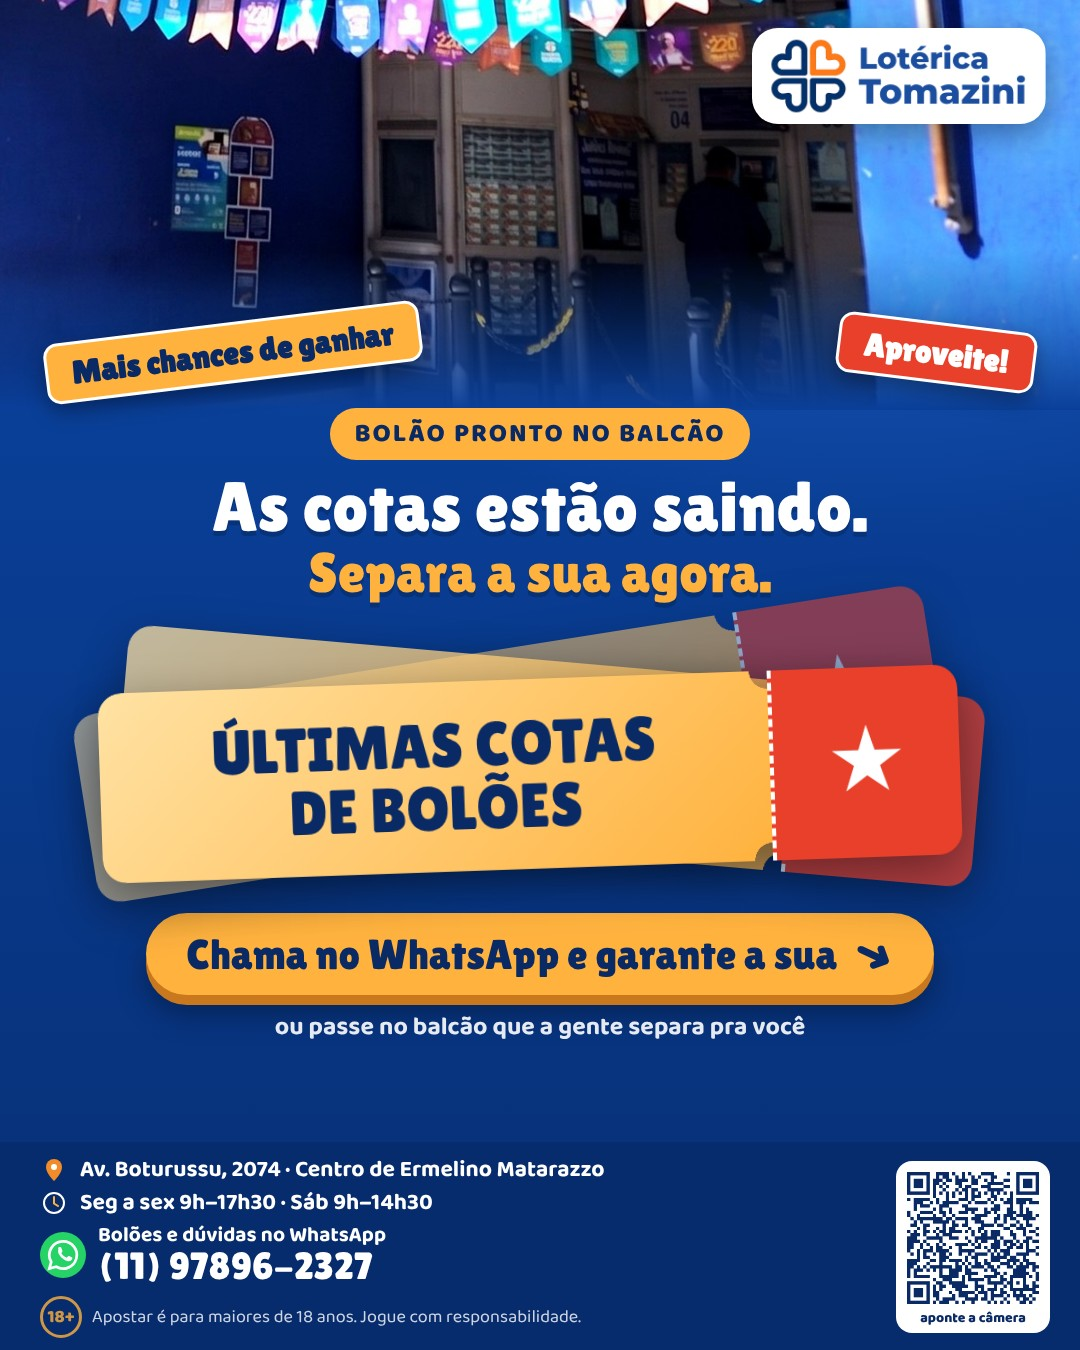
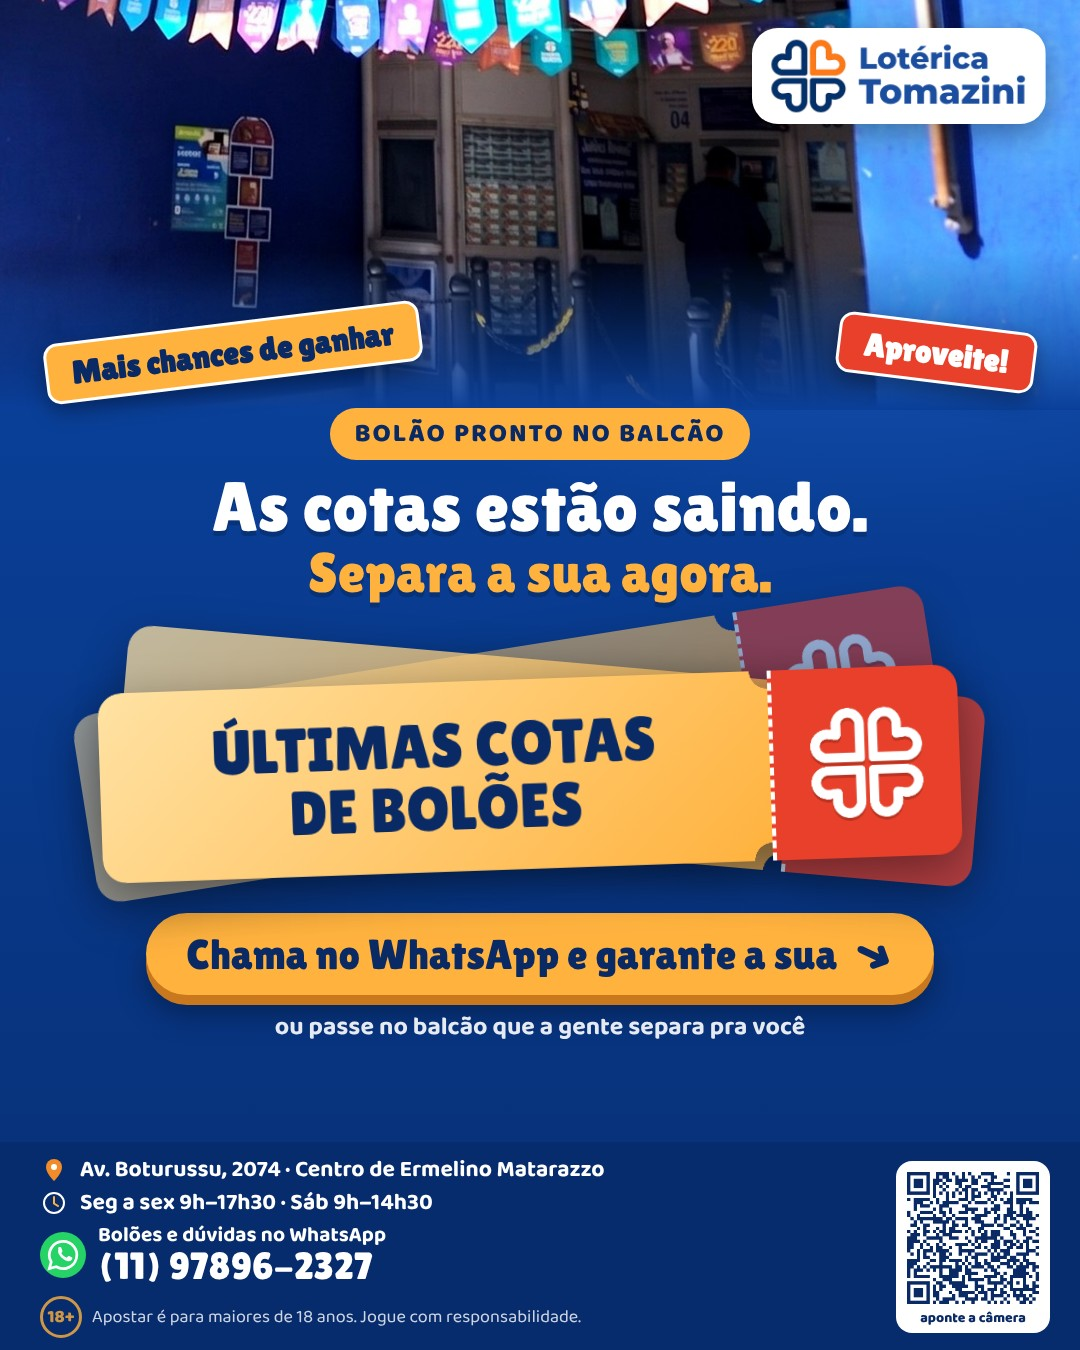
Peça de bolões: trevo da marca G3 em branco no canhoto do cupom
Claude-Session: https://claude.ai/code/session_01Bxe7GpT3JXbyMSz1b7a84R

Changed region(s): [[0.7333, 0.4667, 0.8556, 0.6222]]

diff --git a/pecas-card/bolao_praca-xi.html b/pecas-card/bolao_praca-xi.html
@@ -65,7 +65,7 @@ body{padding:0;align-items:stretch;width:1080px;height:1350px}
 <div class="mid mk2"><div class="tag tl">Mais chances de ganhar</div><div class="tag">Aproveite!</div>
 <div class="kick">BOLÃO PRONTO NO BALCÃO</div>
 <div class="h">As cotas estão saindo.<span>Separa a sua agora.</span></div>
-<div class="lq"><div class="cup c3" style="position:absolute;left:40px;top:10px;transform:rotate(-9deg);opacity:0.55"><div class="cl"></div><div class="cr"><b>★</b></div></div><div class="cup c3" style="position:absolute;left:80px;top:22px;transform:rotate(5deg);opacity:0.75"><div class="cl"></div><div class="cr"><b>★</b></div></div><div class="cup c3" style="position:absolute;left:60px;top:40px;transform:rotate(-2deg);opacity:1"><div class="cl"><b>ÚLTIMAS COTAS<br>DE BOLÕES</b></div><div class="cr"><b>★</b></div></div></div>
+<div class="lq"><div class="cup c3" style="position:absolute;left:40px;top:10px;transform:rotate(-9deg);opacity:0.55"><div class="cl"></div><div class="cr"><img src="__A__/trevo_branco.png" style="width:112px;height:auto;filter:drop-shadow(0 3px 0 rgba(0,0,0,.2))"></div></div><div class="cup c3" style="position:absolute;left:80px;top:22px;transform:rotate(5deg);opacity:0.75"><div class="cl"></div><div class="cr"><img src="__A__/trevo_branco.png" style="width:112px;height:auto;filter:drop-shadow(0 3px 0 rgba(0,0,0,.2))"></div></div><div class="cup c3" style="position:absolute;left:60px;top:40px;transform:rotate(-2deg);opacity:1"><div class="cl"><b>ÚLTIMAS COTAS<br>DE BOLÕES</b></div><div class="cr"><img src="__A__/trevo_branco.png" style="width:112px;height:auto;filter:drop-shadow(0 3px 0 rgba(0,0,0,.2))"></div></div></div>
 <div class="btn">Chama no WhatsApp e garante a sua<b>➜</b></div>
 <div class="ou">ou passe no balcão que a gente separa pra você</div></div>
 <div class="bot"><div class="bl2"><div class="l"><svg viewBox="0 0 56 56" width="28" height="28"><path d="M28 50s16-15 16-28a16 16 0 10-32 0c0 13 16 28 16 28z" fill="#F28C28"/><circle cx="28" cy="22" r="6" fill="#fff"/></svg>Praça Rev. Mattathias Gomes dos Santos, 8 · Praça 11</div><div class="l"><svg viewBox="0 0 56 56" width="28" height="28"><circle cx="28" cy="28" r="20" fill="none" stroke="#fff" stroke-width="4"/><path d="M28 16v13l8 5" fill="none" stroke="#FFB23E" stroke-width="4" stroke-linecap="round"/></svg>Seg a sex 9h–17h45 · Sáb 8h30–14h</div>

diff --git a/pecas-card/bolao_tomazini.html b/pecas-card/bolao_tomazini.html
@@ -65,7 +65,7 @@ body{padding:0;align-items:stretch;width:1080px;height:1350px}
 <div class="mid mk2"><div class="tag tl">Mais chances de ganhar</div><div class="tag">Aproveite!</div>
 <div class="kick">BOLÃO PRONTO NO BALCÃO</div>
 <div class="h">As cotas estão saindo.<span>Separa a sua agora.</span></div>
-<div class="lq"><div class="cup c3" style="position:absolute;left:40px;top:10px;transform:rotate(-9deg);opacity:0.55"><div class="cl"></div><div class="cr"><b>★</b></div></div><div class="cup c3" style="position:absolute;left:80px;top:22px;transform:rotate(5deg);opacity:0.75"><div class="cl"></div><div class="cr"><b>★</b></div></div><div class="cup c3" style="position:absolute;left:60px;top:40px;transform:rotate(-2deg);opacity:1"><div class="cl"><b>ÚLTIMAS COTAS<br>DE BOLÕES</b></div><div class="cr"><b>★</b></div></div></div>
+<div class="lq"><div class="cup c3" style="position:absolute;left:40px;top:10px;transform:rotate(-9deg);opacity:0.55"><div class="cl"></div><div class="cr"><img src="__A__/trevo_branco.png" style="width:112px;height:auto;filter:drop-shadow(0 3px 0 rgba(0,0,0,.2))"></div></div><div class="cup c3" style="position:absolute;left:80px;top:22px;transform:rotate(5deg);opacity:0.75"><div class="cl"></div><div class="cr"><img src="__A__/trevo_branco.png" style="width:112px;height:auto;filter:drop-shadow(0 3px 0 rgba(0,0,0,.2))"></div></div><div class="cup c3" style="position:absolute;left:60px;top:40px;transform:rotate(-2deg);opacity:1"><div class="cl"><b>ÚLTIMAS COTAS<br>DE BOLÕES</b></div><div class="cr"><img src="__A__/trevo_branco.png" style="width:112px;height:auto;filter:drop-shadow(0 3px 0 rgba(0,0,0,.2))"></div></div></div>
 <div class="btn">Chama no WhatsApp e garante a sua<b>➜</b></div>
 <div class="ou">ou passe no balcão que a gente separa pra você</div></div>
 <div class="bot"><div class="bl2"><div class="l"><svg viewBox="0 0 56 56" width="28" height="28"><path d="M28 50s16-15 16-28a16 16 0 10-32 0c0 13 16 28 16 28z" fill="#F28C28"/><circle cx="28" cy="22" r="6" fill="#fff"/></svg>Av. Boturussu, 2074 · Centro de Ermelino Matarazzo</div><div class="l"><svg viewBox="0 0 56 56" width="28" height="28"><circle cx="28" cy="28" r="20" fill="none" stroke="#fff" stroke-width="4"/><path d="M28 16v13l8 5" fill="none" stroke="#FFB23E" stroke-width="4" stroke-linecap="round"/></svg>Seg a sex 9h–17h30 · Sáb 9h–14h30</div>

diff --git a/pecas-card/bolao_we.html b/pecas-card/bolao_we.html
@@ -65,7 +65,7 @@ body{padding:0;align-items:stretch;width:1080px;height:1350px}
 <div class="mid mk2"><div class="tag tl">Mais chances de ganhar</div><div class="tag">Aproveite!</div>
 <div class="kick">BOLÃO PRONTO NO BALCÃO</div>
 <div class="h">As cotas estão saindo.<span>Separa a sua agora.</span></div>
-<div class="lq"><div class="cup c3" style="position:absolute;left:40px;top:10px;transform:rotate(-9deg);opacity:0.55"><div class="cl"></div><div class="cr"><b>★</b></div></div><div class="cup c3" style="position:absolute;left:80px;top:22px;transform:rotate(5deg);opacity:0.75"><div class="cl"></div><div class="cr"><b>★</b></div></div><div class="cup c3" style="position:absolute;left:60px;top:40px;transform:rotate(-2deg);opacity:1"><div class="cl"><b>ÚLTIMAS COTAS<br>DE BOLÕES</b></div><div class="cr"><b>★</b></div></div></div>
+<div class="lq"><div class="cup c3" style="position:absolute;left:40px;top:10px;transform:rotate(-9deg);opacity:0.55"><div class="cl"></div><div class="cr"><img src="__A__/trevo_branco.png" style="width:112px;height:auto;filter:drop-shadow(0 3px 0 rgba(0,0,0,.2))"></div></div><div class="cup c3" style="position:absolute;left:80px;top:22px;transform:rotate(5deg);opacity:0.75"><div class="cl"></div><div class="cr"><img src="__A__/trevo_branco.png" style="width:112px;height:auto;filter:drop-shadow(0 3px 0 rgba(0,0,0,.2))"></div></div><div class="cup c3" style="position:absolute;left:60px;top:40px;transform:rotate(-2deg);opacity:1"><div class="cl"><b>ÚLTIMAS COTAS<br>DE BOLÕES</b></div><div class="cr"><img src="__A__/trevo_branco.png" style="width:112px;height:auto;filter:drop-shadow(0 3px 0 rgba(0,0,0,.2))"></div></div></div>
 <div class="btn">Chama no WhatsApp e garante a sua<b>➜</b></div>
 <div class="ou">ou passe no balcão que a gente separa pra você</div></div>
 <div class="bot"><div class="bl2"><div class="l"><svg viewBox="0 0 56 56" width="28" height="28"><path d="M28 50s16-15 16-28a16 16 0 10-32 0c0 13 16 28 16 28z" fill="#F28C28"/><circle cx="28" cy="22" r="6" fill="#fff"/></svg>Estrada do Lageado Velho, 1013 · Guaianazes</div><div class="l"><svg viewBox="0 0 56 56" width="28" height="28"><circle cx="28" cy="28" r="20" fill="none" stroke="#fff" stroke-width="4"/><path d="M28 16v13l8 5" fill="none" stroke="#FFB23E" stroke-width="4" stroke-linecap="round"/></svg>Seg a sex 9h–19h30 · Sáb 9h–14h30</div>
